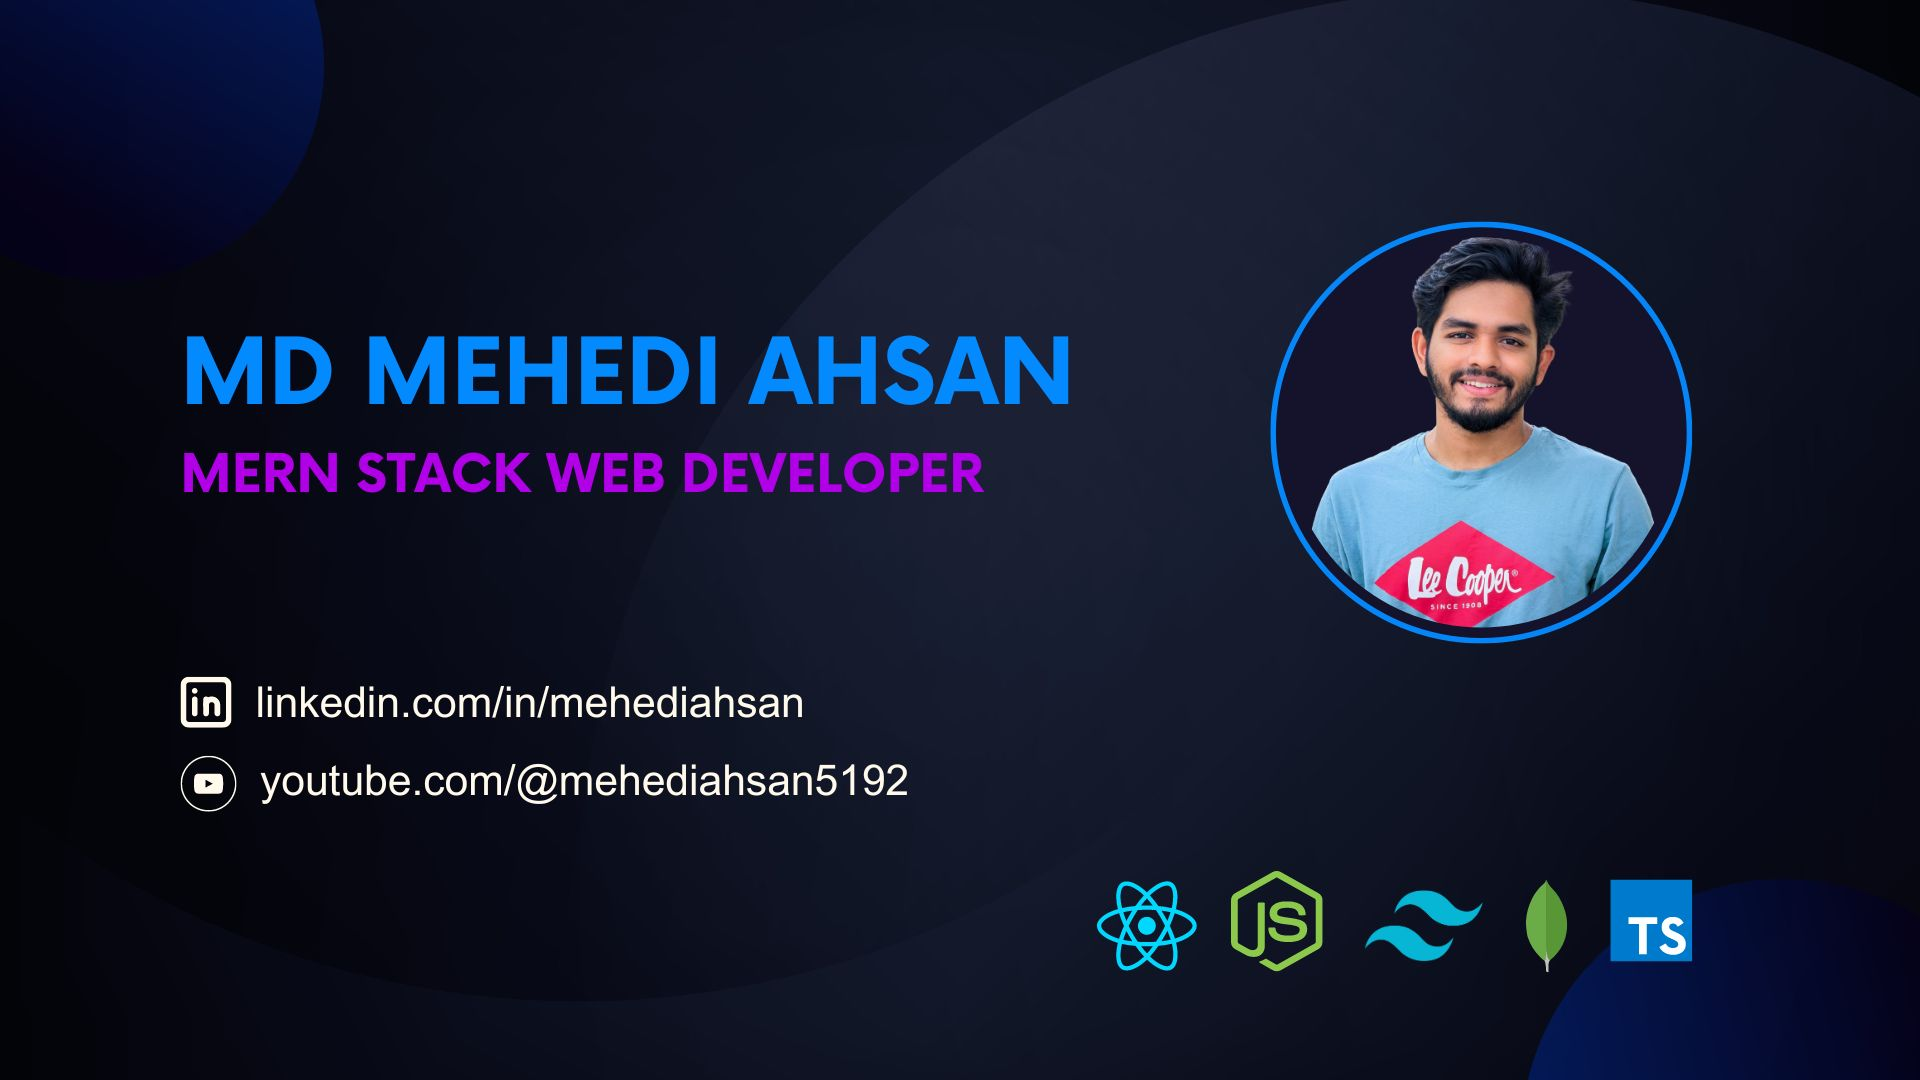
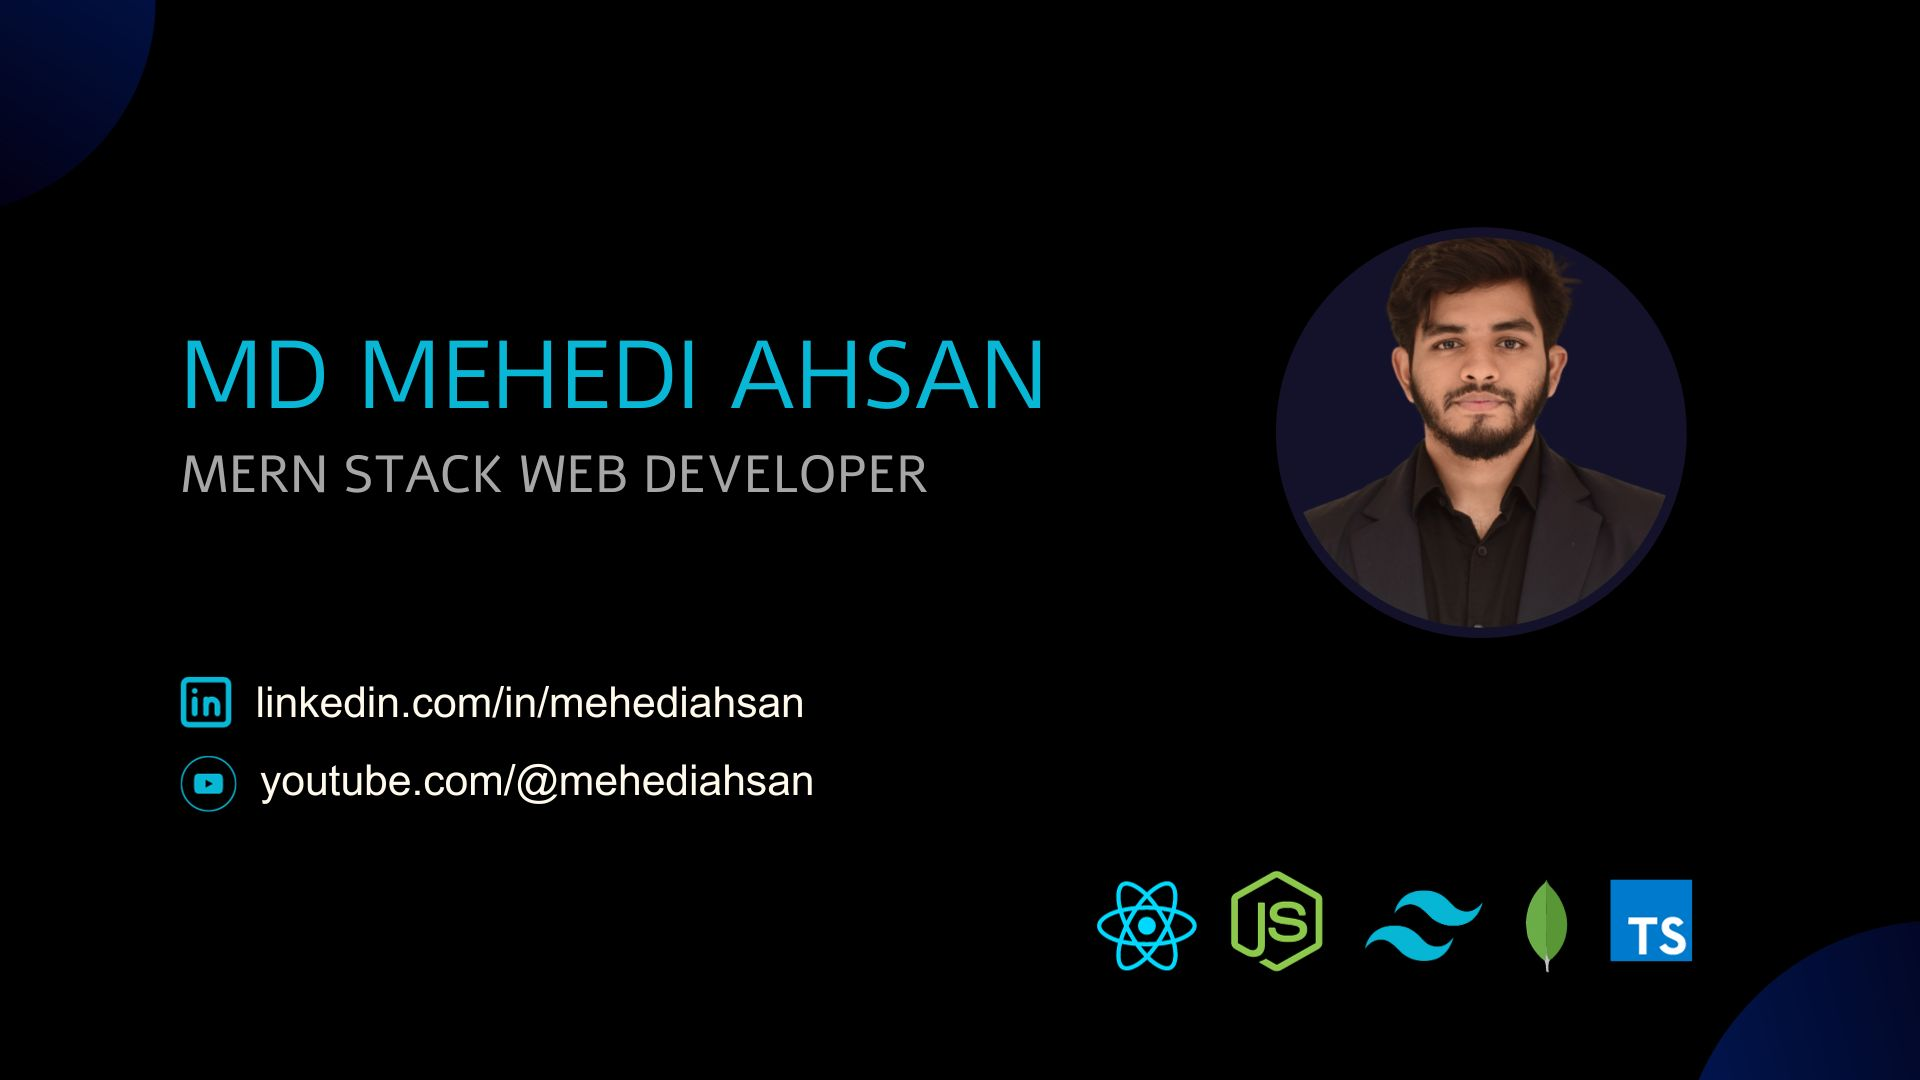
update profile image

diff --git a/README.md b/README.md
@@ -4,7 +4,7 @@
 <div align='center'>
 <h1  style='color: #7895B2'>✍🏻 About Me </h1>
 
-<p style='font-size: 17px;'>Hello 👉 I’m Mehedi Ahsan, a dedicated and driven MERN Stack Web Developer. I am from Dhaka, Bangladesh. I have recently completed my graduation B.SC in Computer Science and Engineering. I completed an internship and a Web Development course. Proficient in JavaScript, React, Node.js, Express.js and MongoDB. I am passionate about creating innovative and user-friendly web applications. Seeking a challenging position in a dynamic organization where I can utilize my expertise, collaborate with talented teams, and further enhance my career.</p>
+<p style='font-size: 18px;'>Hello 👉 I’m Mehedi Ahsan, a dedicated and driven MERN Stack Web Developer. From 🌍Dhaka, Bangladesh. I have recently completed my 🎓graduation B.Sc in Computer Science and Engineering. Proficient in JavaScript, React, Next.js, Node.js, Express.js and MongoDB. Passionate about creating innovative and user-friendly web applications. Seeking a challenging position in a dynamic organization where I can utilize my expertise, collaborate with talented teams, and further enhance my career.</p>
 
 
 <!-- <a target='_blank' class='' href='https://facebook.com/mehediahsan19'>
